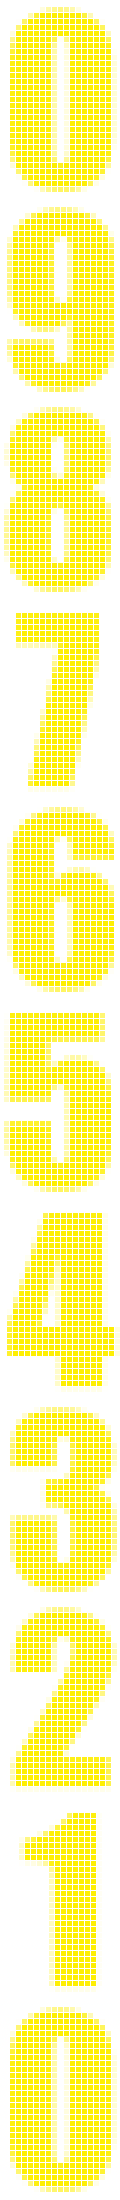
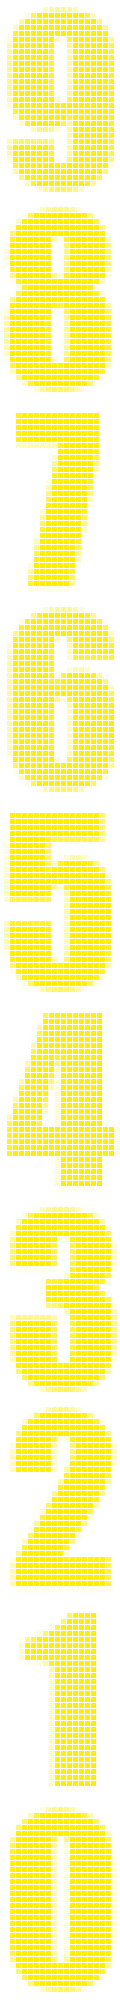
tiling sprites

diff --git a/assets/js/scenario.js b/assets/js/scenario.js
@@ -16,27 +16,15 @@ var scenario = {
 
 (function(){
 
-    function addNumber(_layout, _image) {
-        var result = app.add.sprite(_layout.x + _layout.w / 2, _layout.y + _layout.h / 2, _image);
-        result.anchor.setTo(0.5, 0.5);
-        return result;
-    }
-
     scenario.init = function(){
-        counter.left.a.y = counter.left.a.y - layout.counter.left.a.h * 10;
-        counter.left.b.y = counter.left.b.y - layout.counter.left.b.h * 10;
-        counter.left.c.y = counter.left.c.y - layout.counter.left.c.h * 10;
-        counter.right.a.y = counter.right.a.y - layout.counter.right.a.h * 10;
-        counter.right.b.y = counter.right.b.y - layout.counter.right.b.h * 10;
-        counter.right.c.y = counter.right.c.y - layout.counter.right.c.h * 10;
     };
 
     scenario.stages = [
         {
             play: function(){
                 console.log('Шаг 1');
-                var tween = app.add.tween(counter.left.c);
-                tween.to({y: counter.left.c.y + layout.counter.left.c.h * 3}, 2500, Phaser.Easing.Elastic.Out, true);
+                var tween = app.add.tween(counter.left.c.tilePosition);
+                tween.to({y: counter.left.c.tilePosition.y + layout.counter.left.c.h * 3}, 2500, Phaser.Easing.Elastic.Out, true);
                 snd.money.play();
             },
             update: function(){
@@ -46,8 +34,8 @@ var scenario = {
         {
             play: function(){
                 console.log('Шаг 1');
-                var tween = app.add.tween(counter.left.c);
-                tween.to({y: counter.left.c.y + layout.counter.left.c.h}, 2500, Phaser.Easing.Elastic.Out, true);
+                var tween = app.add.tween(counter.left.c.tilePosition);
+                tween.to({y: counter.left.c.tilePosition.y + layout.counter.left.c.h}, 2500, Phaser.Easing.Elastic.Out, true);
                 snd.money.play();
             },
             update: function(){
@@ -57,19 +45,8 @@ var scenario = {
         {
             play: function(){
                 console.log('Шаг 1');
-                var tween = app.add.tween(counter.left.c);
-                tween.to({y: counter.left.c.y + layout.counter.left.c.h}, 1000, Phaser.Easing.Elastic.Out, true);
-                snd.money.play();
-            },
-            update: function(){
-
-            }
-        },
-        {
-            play: function(){
-                console.log('Шаг 1');
-                var tween = app.add.tween(counter.left.b);
-                tween.to({y: counter.left.b.y + layout.counter.left.b.h}, 5000, Phaser.Easing.Elastic.Out, true);
+                var tween = app.add.tween(counter.left.c.tilePosition);
+                tween.to({y: counter.left.c.tilePosition.y + layout.counter.left.c.h}, 1000, Phaser.Easing.Elastic.Out, true);
                 snd.money.play();
             },
             update: function(){
@@ -79,7 +56,20 @@ var scenario = {
         {
             play: function(){
                 console.log('Шаг 2');
+                var tween = app.add.tween(counter.left.c.tilePosition);
+                tween.to({y: counter.left.c.tilePosition.y - layout.counter.left.c.h}, 3000, Phaser.Easing.Elastic.Out, true);
                 snd.tickDown.play();
+            },
+            update: function(){
+
+            }
+        },
+        {
+            play: function(){
+                console.log('Шаг 1');
+                var tween = app.add.tween(counter.left.b.tilePosition);
+                tween.to({y: counter.left.b.tilePosition.y + layout.counter.left.b.h}, 5000, Phaser.Easing.Elastic.Out, true);
+                snd.money.play();
             },
             update: function(){
 
@@ -89,6 +79,7 @@ var scenario = {
             play: function(){
                 console.log('Шаг 3');
                 snd.win.play();
+                scenario.current = -1;
             },
             update: function(){
 

diff --git a/assets/js/app.js b/assets/js/app.js
@@ -53,14 +53,14 @@ function create() {
 
     counter = {
         left: {
-            a: mkMaskedNumbers(layout.counter.left.a),
-            b: mkMaskedNumbers(layout.counter.left.b),
-            c: mkMaskedNumbers(layout.counter.left.c)
+            a: mkTiledNumbers(layout.counter.left.a),
+            b: mkTiledNumbers(layout.counter.left.b),
+            c: mkTiledNumbers(layout.counter.left.c)
         },
         right: {
-            a: mkMaskedNumbers(layout.counter.right.a),
-            b: mkMaskedNumbers(layout.counter.right.b),
-            c: mkMaskedNumbers(layout.counter.right.c)
+            a: mkTiledNumbers(layout.counter.right.a),
+            b: mkTiledNumbers(layout.counter.right.b),
+            c: mkTiledNumbers(layout.counter.right.c)
         }
     };
 
@@ -73,6 +73,12 @@ function mkMaskedNumbers(_layout) {
     mask.beginFill(0xffffff);
     mask.drawRect(_layout.x, _layout.y, _layout.w, _layout.h);
     result.mask = mask;
+    return result;
+}
+
+function mkTiledNumbers(_layout) {
+    var result = app.add.tileSprite(_layout.x, _layout.y, _layout.w, _layout.h, res.img.numbers);
+    result.tilePosition.y = _layout.h * 11;
     return result;
 }
 
